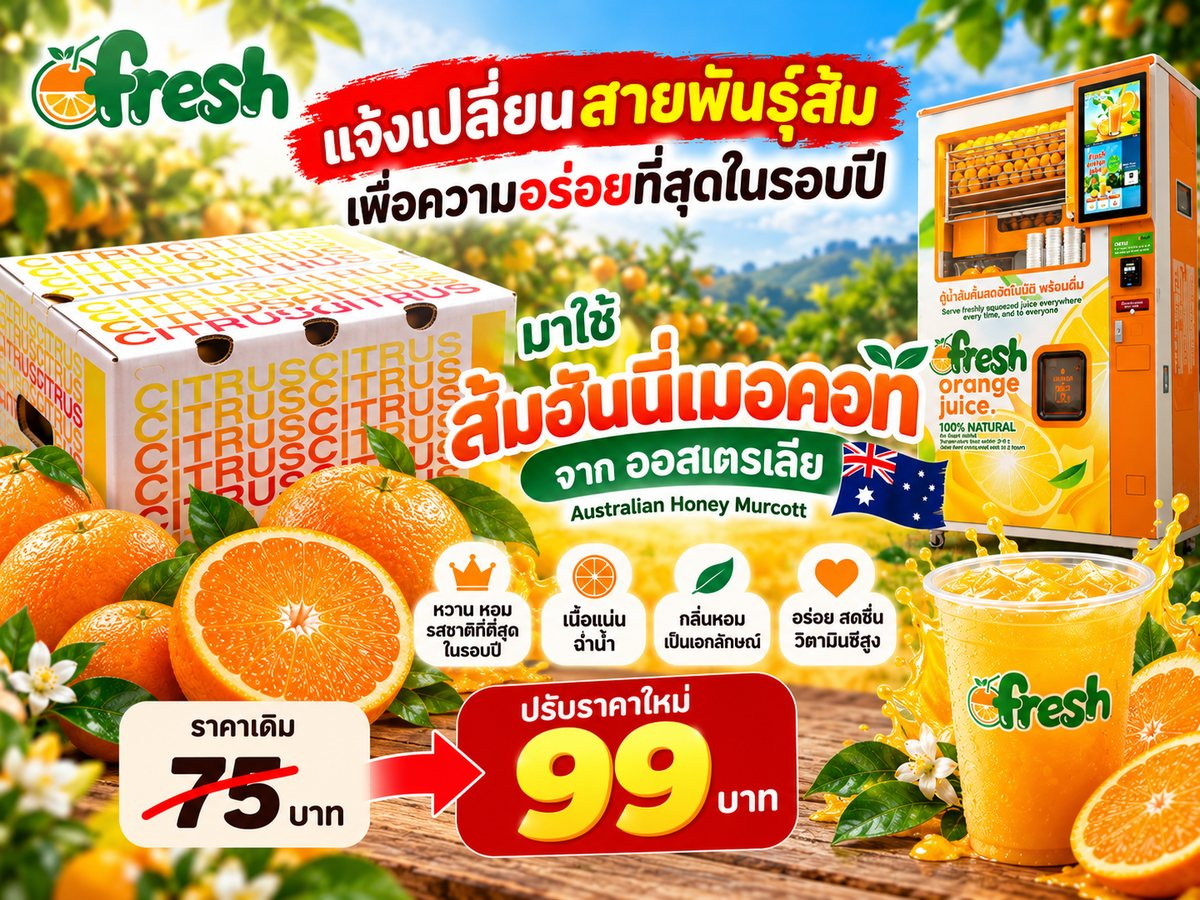
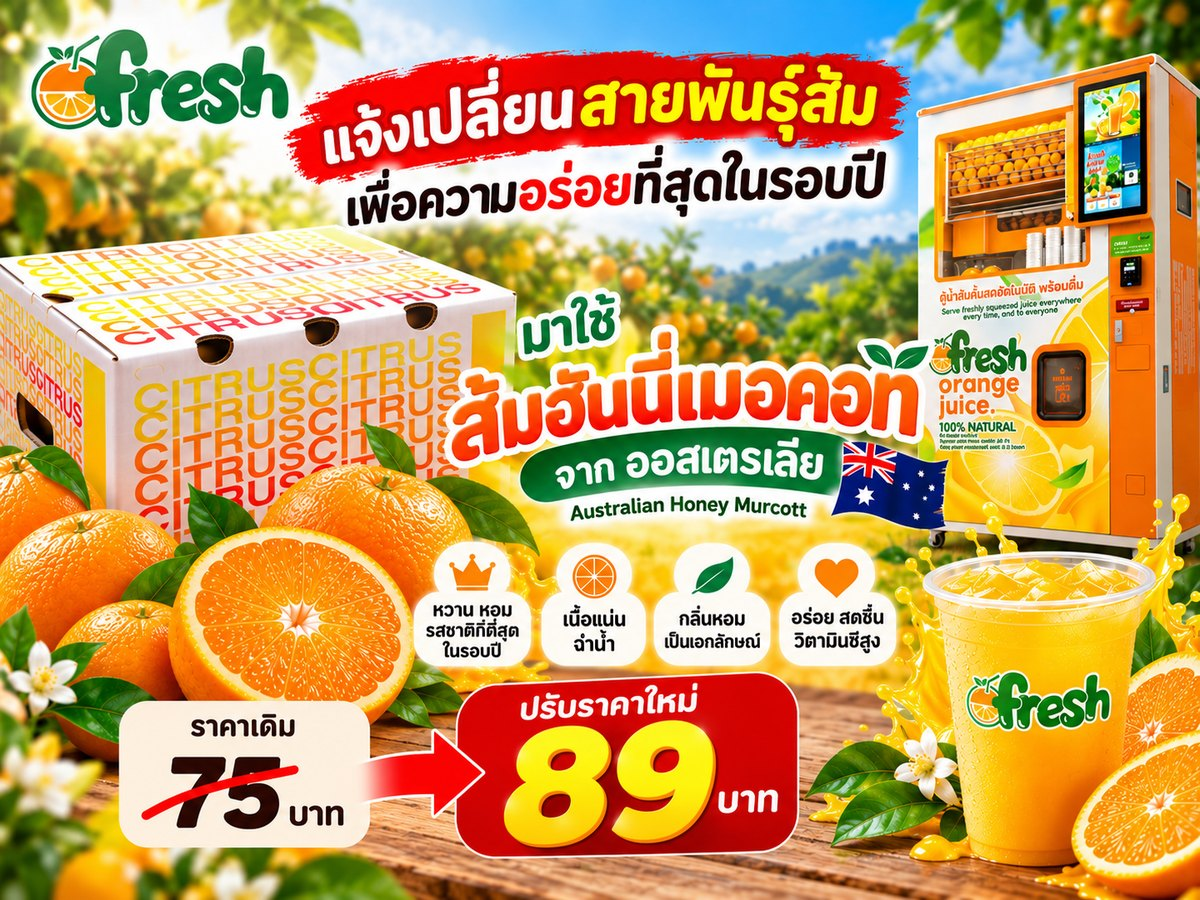
Price 99 -> 89 baht per cup: update site copy, i18n (5 languages) and the price notice poster

diff --git a/index.html b/index.html
@@ -6,7 +6,7 @@
     <title>ตู้น้ำส้มคั้นสด O'Fresh | น้ำส้มคั้นสดอัตโนมัติ เชียงใหม่</title>
 
     <!-- SEO -->
-    <meta name="description" content="ตู้น้ำส้มคั้นสดอัตโนมัติ O'Fresh ที่เซ็นทรัล เฟสติวัล เชียงใหม่ ชั้น 4 คั้นสดทุกแก้ว ไม่ใส่น้ำตาล ไม่ผสมน้ำแข็ง ราคา 99 บาท">
+    <meta name="description" content="ตู้น้ำส้มคั้นสดอัตโนมัติ O'Fresh ที่เซ็นทรัล เฟสติวัล เชียงใหม่ ชั้น 4 คั้นสดทุกแก้ว ไม่ใส่น้ำตาล ไม่ผสมน้ำแข็ง ราคา 89 บาท">
     <meta name="keywords" content="ตู้น้ำส้มคั้นสด, น้ำส้มคั้นสด, O'Fresh, fresh orange juice vending machine, เชียงใหม่, Chiang Mai, น้ำส้มอัตโนมัติ, ไม่มีน้ำตาล, 100% natural">
     <meta name="author" content="O'Fresh">
     <link rel="canonical" href="https://ofresh.baanporjai.com">
@@ -17,7 +17,7 @@
 <meta property="og:locale"      content="th_TH">
 <meta property="og:url"         content="https://ofresh.baanporjai.com/">
 <meta property="og:title"       content="ตู้น้ำส้มคั้นสด O'Fresh | น้ำส้มคั้นสดอัตโนมัติ เชียงใหม่">
-<meta property="og:description"  content="น้ำส้มคั้นสดใหม่ทุกแก้ว ไม่มีน้ำตาลเพิ่ม สะอาด ราคา 99 บาท หาตู้ O'Fresh ได้ที่เซ็นทรัล เฟสติวัล เชียงใหม่ ชั้น 4">
+<meta property="og:description"  content="น้ำส้มคั้นสดใหม่ทุกแก้ว ไม่มีน้ำตาลเพิ่ม สะอาด ราคา 89 บาท หาตู้ O'Fresh ได้ที่เซ็นทรัล เฟสติวัล เชียงใหม่ ชั้น 4">
 <meta property="og:image"       content="https://ofresh.baanporjai.com/ofresh-orange-juice-vending-chiangmai-2.jpg">
 <meta property="og:image:width"  content="1200">  <!-- เพิ่มใหม่ -->
 <meta property="og:image:height" content="630">   <!-- เพิ่มใหม่ -->
@@ -27,7 +27,7 @@
 <!-- ═══ Twitter / X Card ═══ -->
 <meta name="twitter:card"       content="summary_large_image">
 <meta name="twitter:title"      content="ตู้น้ำส้มคั้นสด O'Fresh | น้ำส้มคั้นสดอัตโนมัติ เชียงใหม่">
-<meta name="twitter:description" content="น้ำส้มคั้นสดใหม่ทุกแก้ว ไม่มีน้ำตาลเพิ่ม สะอาด ราคา 99 บาท ที่เซ็นทรัล เฟสติวัล เชียงใหม่">
+<meta name="twitter:description" content="น้ำส้มคั้นสดใหม่ทุกแก้ว ไม่มีน้ำตาลเพิ่ม สะอาด ราคา 89 บาท ที่เซ็นทรัล เฟสติวัล เชียงใหม่">
 <meta name="twitter:image"      content="https://ofresh.baanporjai.com/ofresh-orange-juice-vending-chiangmai-2.jpg">
 <meta name="twitter:image:alt"  content="ตู้น้ำส้มคั้นสด O'Fresh เซ็นทรัล เฟสติวัล เชียงใหม่">  <!-- เพิ่มใหม่ -->
 
@@ -49,7 +49,7 @@
   "url": "https://ofresh.baanporjai.com",
   "logo": "https://ofresh.baanporjai.com/OFresh_Logo_transparent.png",
   "image": "https://ofresh.baanporjai.com/ofresh-orange-juice-vending-chiangmai.jpg",
-  "description": "ตู้น้ำส้มคั้นสดอัตโนมัติ คั้นสดทุกแก้ว ไม่ใส่น้ำตาล ไม่ผสมน้ำแข็ง ราคา 99 บาท/แก้ว",
+  "description": "ตู้น้ำส้มคั้นสดอัตโนมัติ คั้นสดทุกแก้ว ไม่ใส่น้ำตาล ไม่ผสมน้ำแข็ง ราคา 89 บาท/แก้ว",
   "telephone": "+66879867000",
   "priceRange": "฿",
   "servesCuisine": "Fresh Juice",
@@ -85,7 +85,7 @@
       "name": "น้ำส้มคั้นสด O'Fresh ราคาเท่าไหร่?",
       "acceptedAnswer": {
         "@type": "Answer",
-        "text": "ราคา 99 บาทต่อแก้ว ปริมาณ 280 ml ชำระผ่าน QR Code, PromptPay, TrueMoney, WeChat Pay หรือบัตรเครดิต/เดบิต VISA และ Mastercard"
+        "text": "ราคา 89 บาทต่อแก้ว ปริมาณ 280 ml ชำระผ่าน QR Code, PromptPay, TrueMoney, WeChat Pay หรือบัตรเครดิต/เดบิต VISA และ Mastercard"
       }
     },
     {
@@ -1106,7 +1106,7 @@
                     <span data-i18n="faq1_q">💰 ราคาแก้วละเท่าไหร่?</span>
                     <i class="fas fa-chevron-down faq-icon"></i>
                 </button>
-                <div class="faq-a"><p data-i18n="faq1_a">ราคา 99 บาทต่อแก้ว (ปริมาณน้ำส้ม 280 ml) ชำระผ่าน QR Code หรือบัตรเครดิต/เดบิตได้เลย</p></div>
+                <div class="faq-a"><p data-i18n="faq1_a">ราคา 89 บาทต่อแก้ว (ปริมาณน้ำส้ม 280 ml) ชำระผ่าน QR Code หรือบัตรเครดิต/เดบิตได้เลย</p></div>
             </div>
 
             <div class="faq-item animate-on-scroll">
@@ -1365,17 +1365,17 @@ Temperature kept within 3-9°C</p>
         })();
     </script>
 
-    <!-- ประกาศเปลี่ยนสายพันธุ์ส้ม (ฮันนี่เมอคอท ออสเตรเลีย) & ปรับราคา 75 → 99 บาท
+    <!-- ประกาศเปลี่ยนสายพันธุ์ส้ม (ฮันนี่เมอคอท ออสเตรเลีย) & ปรับราคา 75 → 89 บาท
          เด้งให้ดูครั้งเดียวต่อเบราว์เซอร์ (จำใน localStorage) แล้วเหลือปุ่มลอยมุมซ้ายล่างให้เปิดดูซ้ำได้
          เปลี่ยนเลขเวอร์ชันใน NOTICE_KEY ถ้าจะประกาศเรื่องใหม่ให้เด้งใหม่ -->
     <button type="button" class="notice-pill" id="noticePill" data-i18n="notice_pill">📢 แจ้งเปลี่ยนสายพันธุ์ส้ม &amp; ปรับราคา</button>
     <div class="notice-modal" id="noticeModal" role="dialog" aria-modal="true">
         <button type="button" class="notice-close" id="noticeClose" aria-label="ปิด">&times;</button>
-        <img src="assets/honey-murcott-price.jpg" id="noticeImg" alt="ประกาศ: O'Fresh เปลี่ยนมาใช้ส้มฮันนี่เมอคอทจากออสเตรเลีย ปรับราคาจาก 75 เป็น 99 บาท" width="1200" height="900">
+        <img src="assets/honey-murcott-price.jpg" id="noticeImg" alt="ประกาศ: O'Fresh เปลี่ยนมาใช้ส้มฮันนี่เมอคอทจากออสเตรเลีย ปรับราคาจาก 75 เป็น 89 บาท" width="1200" height="900">
     </div>
     <script>
     (function () {
-        var NOTICE_KEY = 'ofresh_notice_honeymurcott_v1';
+        var NOTICE_KEY = 'ofresh_notice_honeymurcott_v2';
         var modal = document.getElementById('noticeModal');
         function open() { modal.classList.add('open'); }
         function close() {

diff --git a/i18n.js b/i18n.js
@@ -131,7 +131,7 @@ const translations = {
     faq_h2: 'มีข้อสงสัยไหม?',
     faq_p: 'รวมคำถามที่ลูกค้าถามบ่อยเกี่ยวกับ O\'Fresh',
     faq1_q: '💰 ราคาแก้วละเท่าไหร่?',
-    faq1_a: 'ราคา 99 บาทต่อแก้ว (ปริมาณน้ำส้ม 280 ml) ชำระผ่าน QR Code หรือบัตรเครดิต/เดบิตได้เลย',
+    faq1_a: 'ราคา 89 บาทต่อแก้ว (ปริมาณน้ำส้ม 280 ml) ชำระผ่าน QR Code หรือบัตรเครดิต/เดบิตได้เลย',
     notice_pill: '📢 แจ้งเปลี่ยนสายพันธุ์ส้ม & ปรับราคา',
     faq2_q: '📍 ตู้ตั้งอยู่ที่ไหน?',
     faq2_a: 'ตู้ O\'Fresh ตั้งอยู่ที่ห้างเซ็นทรัล เฟสติวัล เชียงใหม่ ชั้น 4 โซนศูนย์อาหาร เปิดให้บริการตลอด 24 ชั่วโมง',
@@ -322,7 +322,7 @@ const translations = {
     faq_h2: 'Got Questions?',
     faq_p: 'Answers to the most common questions about O\'Fresh',
     faq1_q: '💰 How much does a cup cost?',
-    faq1_a: '99 Baht per cup (280 ml of fresh orange juice). Pay via QR Code or credit/debit card.',
+    faq1_a: '89 Baht per cup (280 ml of fresh orange juice). Pay via QR Code or credit/debit card.',
     notice_pill: '📢 New orange variety & price update',
     faq2_q: '📍 Where is the machine located?',
     faq2_a: 'O\'Fresh is located at Central Festival Chiang Mai, 4th floor, Food Court Zone. Open 24 hours a day.',
@@ -513,7 +513,7 @@ const translations = {
     faq_h2: '有疑问吗？',
     faq_p: '关于 O\'Fresh 的常见问题解答',
     faq1_q: '💰 一杯多少钱？',
-    faq1_a: '每杯 99 泰铢（280 ml），支持 QR Code 或信用卡/借记卡付款。',
+    faq1_a: '每杯 89 泰铢（280 ml），支持 QR Code 或信用卡/借记卡付款。',
     notice_pill: '📢 更换橙子品种 & 价格调整',
     faq2_q: '📍 机器在哪里？',
     faq2_a: 'O\'Fresh 位于清迈 Central Festival 购物中心 4 楼美食广场，全天 24 小时开放。',
@@ -704,7 +704,7 @@ const translations = {
     faq_h2: 'ご質問はありますか？',
     faq_p: 'O\'Fresh についてよくある質問をまとめました',
     faq1_q: '💰 1杯いくらですか？',
-    faq1_a: '1杯 99バーツ（280ml）。QRコードまたはクレジット/デビットカードでお支払いいただけます。',
+    faq1_a: '1杯 89バーツ（280ml）。QRコードまたはクレジット/デビットカードでお支払いいただけます。',
     notice_pill: '📢 オレンジ品種変更＆価格改定のお知らせ',
     faq2_q: '📍 どこにありますか？',
     faq2_a: 'O\'Fresh はチェンマイ・セントラルフェスティバル4階フードコートにあります。24時間営業です。',
@@ -894,7 +894,7 @@ const translations = {
     faq_h2: '궁금하신 점이 있나요?',
     faq_p: 'O\'Fresh 에 대해 자주 묻는 질문을 모았습니다',
     faq1_q: '💰 한 컵에 얼마인가요?',
-    faq1_a: '한 컵 99바트（280ml）. QR코드 또는 신용카드/직불카드로 결제 가능합니다.',
+    faq1_a: '한 컵 89바트（280ml）. QR코드 또는 신용카드/직불카드로 결제 가능합니다.',
     notice_pill: '📢 오렌지 품종 변경 및 가격 조정 안내',
     faq2_q: '📍 기계가 어디에 있나요?',
     faq2_a: 'O\'Fresh는 치앙마이 센트럴 페스티벌 4층 푸드코트에 있습니다. 24시간 운영합니다.',
